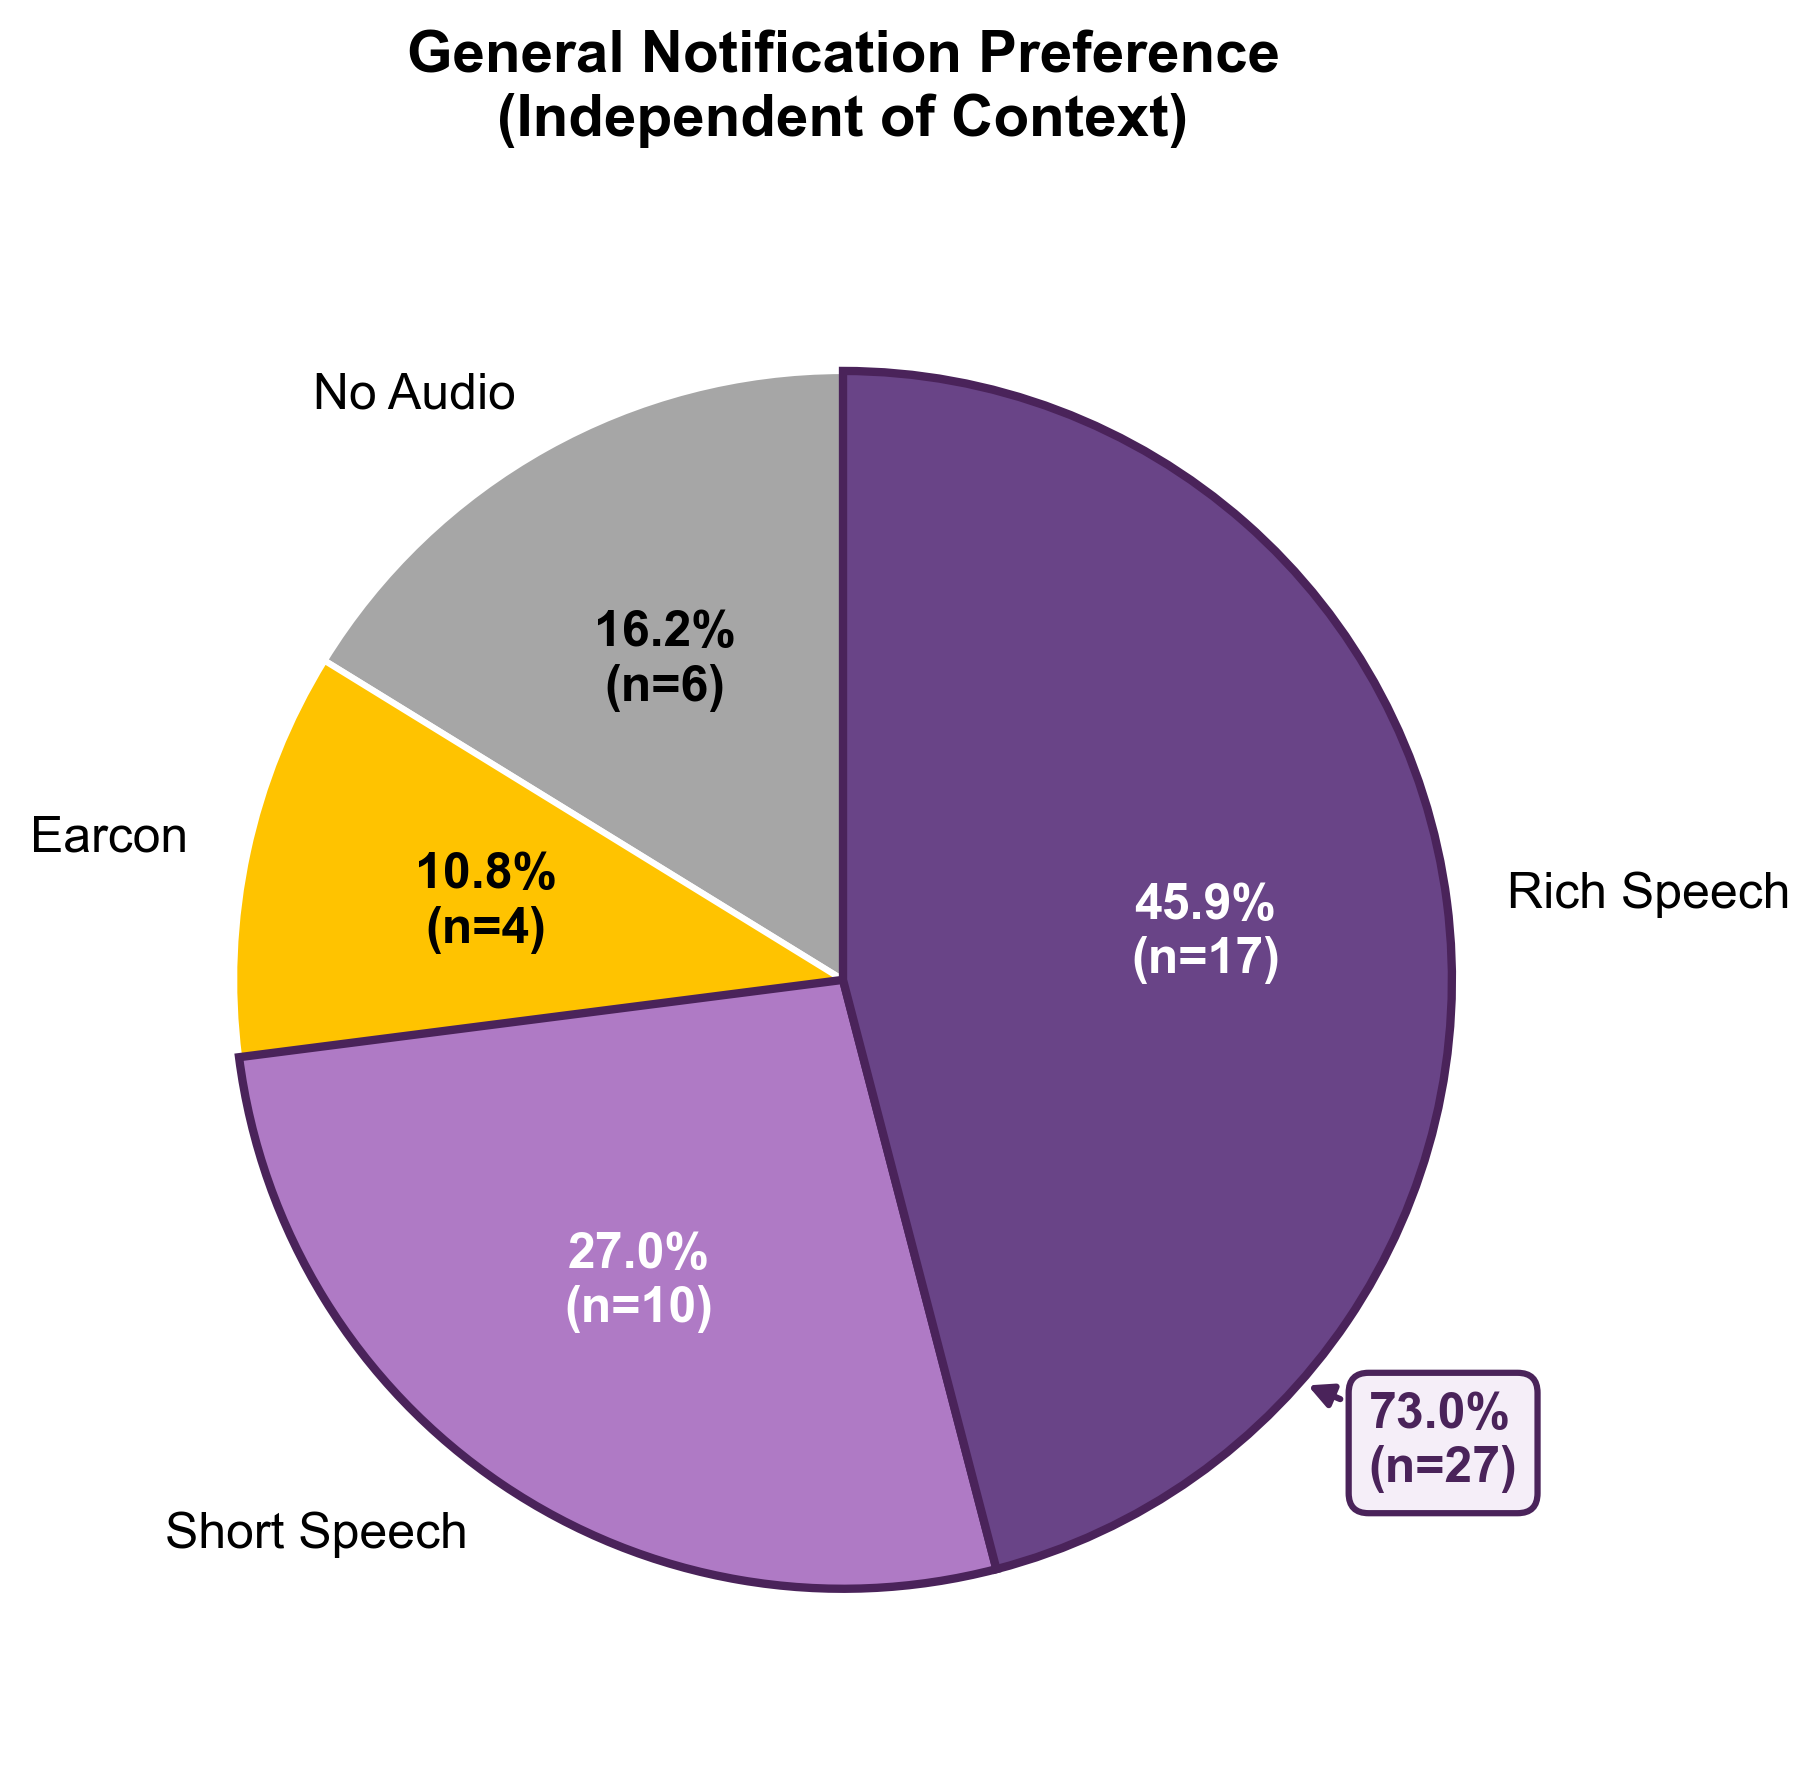
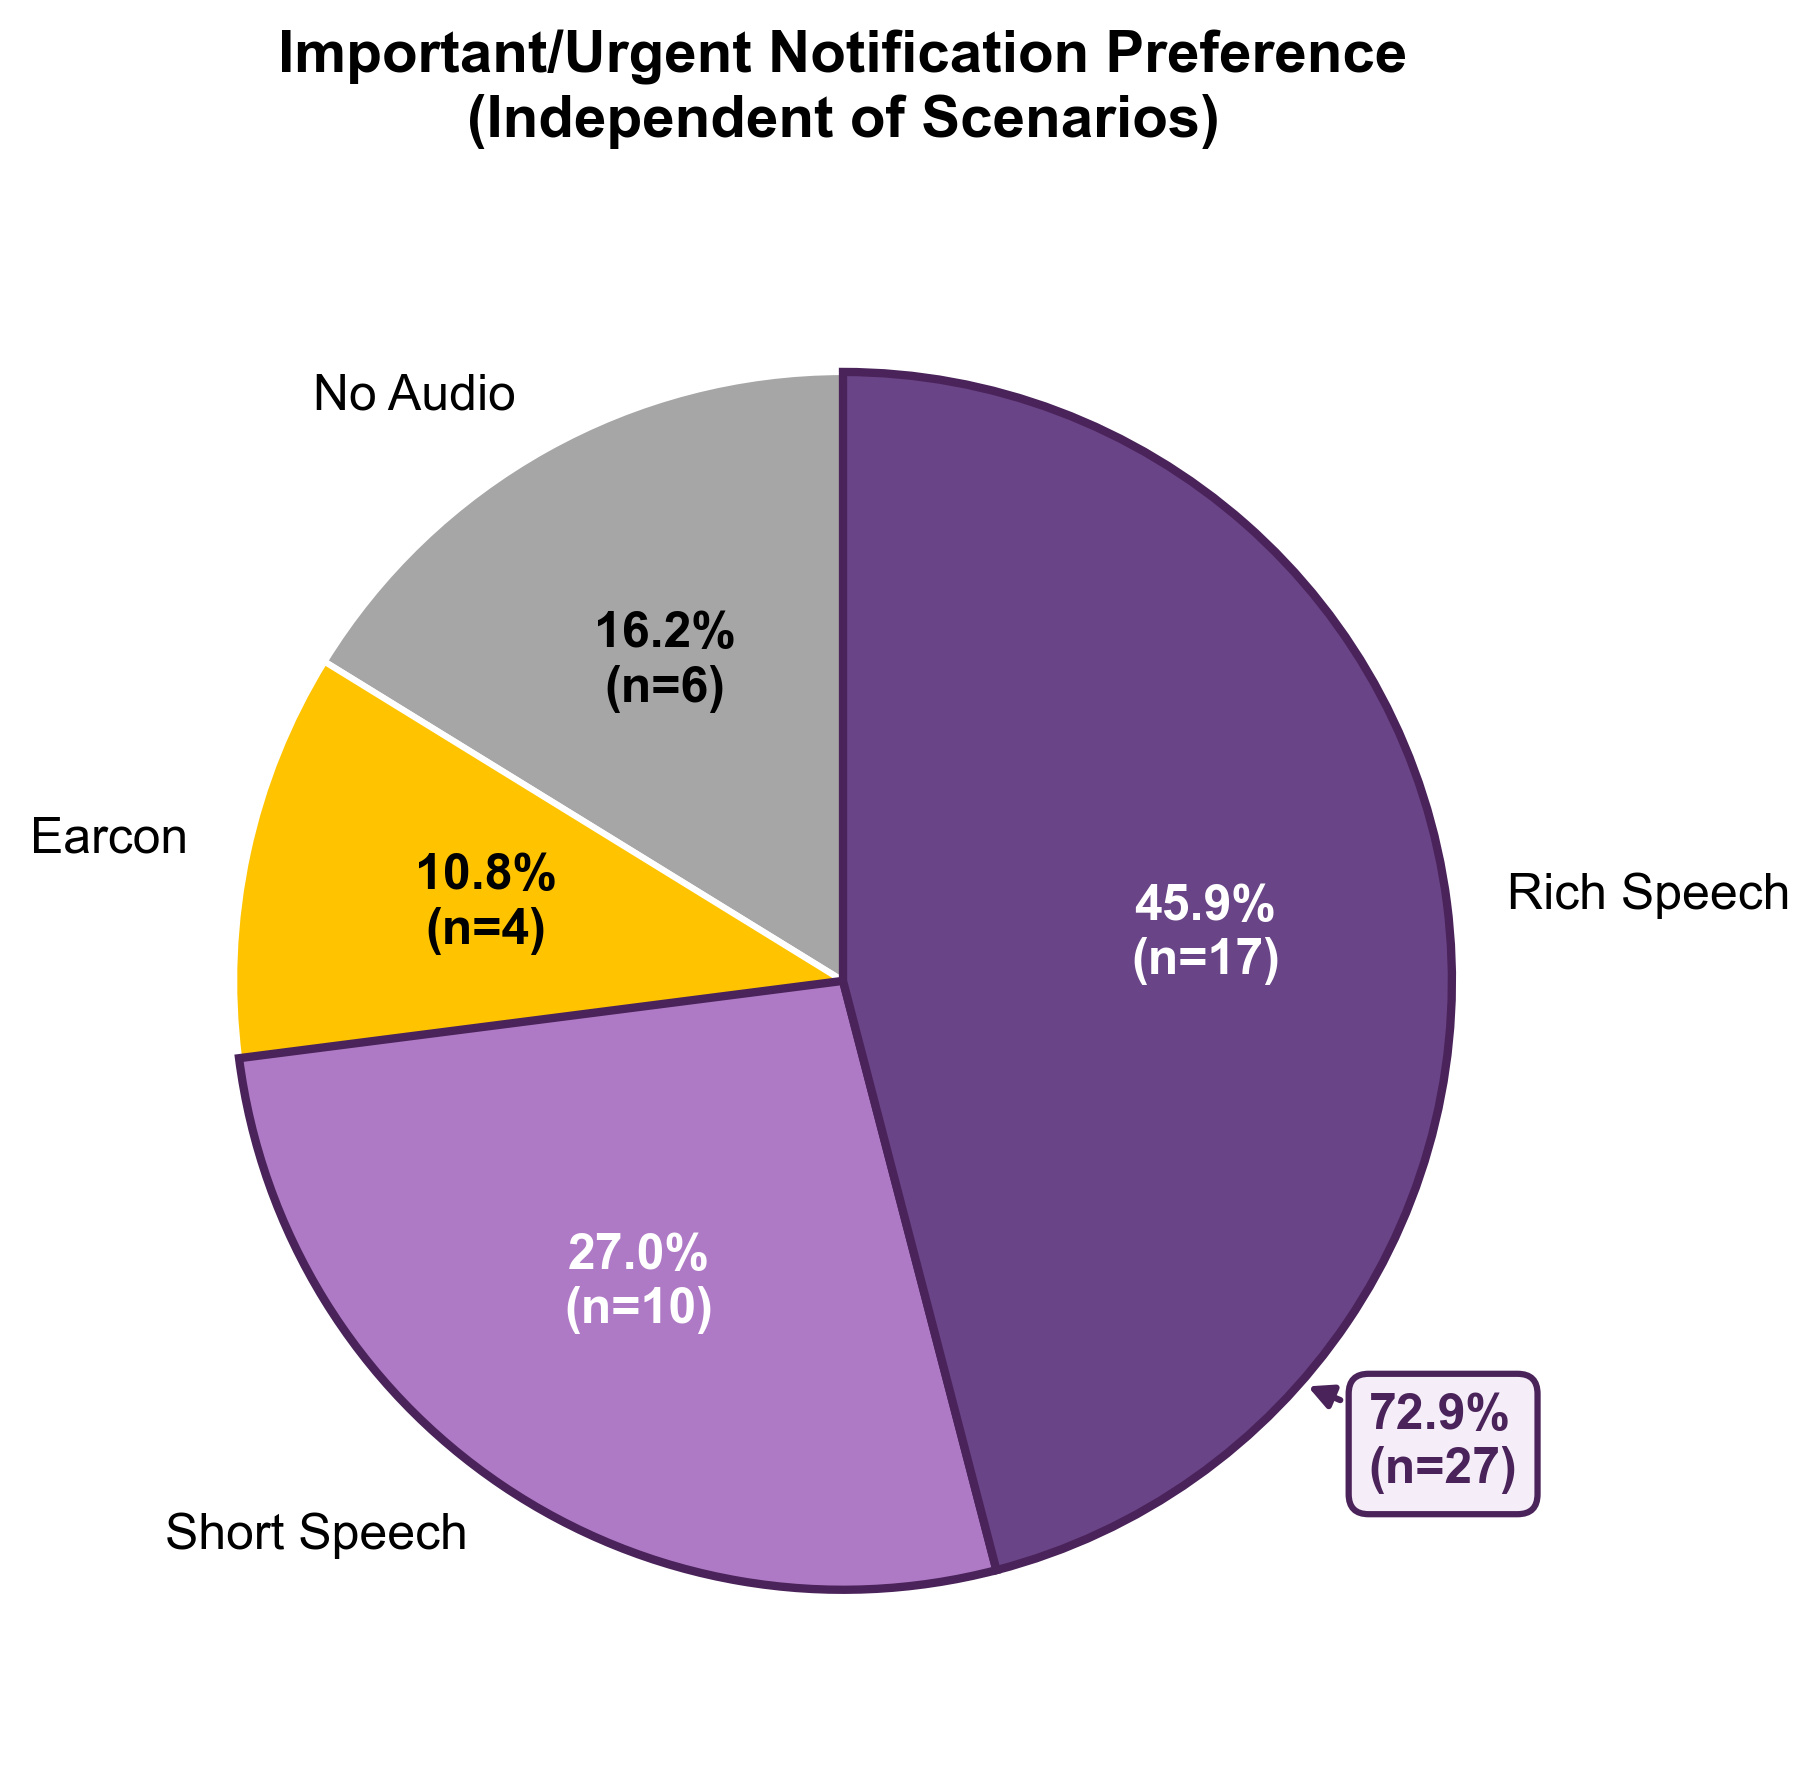
progress

diff --git a/preferenceDevelopment.py b/preferenceDevelopment.py
@@ -1,0 +1,197 @@
+import matplotlib.pyplot as plt
+import os
+import numpy as np
+from matplotlib.patches import Polygon
+
+# ==========================================
+# CONFIGURATION
+# ==========================================
+OUTPUT_DIR = "furtherPlots32"
+
+# Explicitly tell Matplotlib to use the sans-serif list for all text by default
+plt.rcParams['font.family'] = 'sans-serif'
+plt.rcParams['font.sans-serif'] = ['Arial', 'Segoe UI Emoji', 'Tahoma', 'DejaVu Sans']
+
+# Format Colors matching previous visualizations
+FORMAT_COLORS = {
+    'No Audio': '#A6A6A6',      # Grey
+    'Earcon': '#FFC300',        # Yellow
+    'Short Speech': '#AF7AC5',  # Light Purple
+    'Rich Speech': '#694487'    # Dark Purple
+}
+
+FORMAT_ORDER = ['No Audio', 'Earcon', 'Short Speech', 'Rich Speech']
+
+STAGES_ORDER = [
+    'Stage 1: Independent\n(Initial Preference)', 
+    'Stage 2: Scenario-Based\n(Aggregated)', 
+    'Stage 3: Timing-Based\n(Aggregated)'
+]
+
+# Hardcoded data based on your provided stats
+SURVEY_DATA = {
+    'Stage 1: Independent\n(Initial Preference)': {
+        'Rich Speech': 17,
+        'Short Speech': 10,
+        'No Audio': 6,
+        'Earcon': 4
+    },
+    'Stage 2: Scenario-Based\n(Aggregated)': {
+        'Earcon': 109,
+        'Rich Speech': 95,
+        'No Audio': 72,
+        'Short Speech': 57
+    },
+    'Stage 3: Timing-Based\n(Aggregated)': {
+        'Rich Speech': 165,
+        'Earcon': 94,
+        'Short Speech': 69,
+        'No Audio': 5
+    }
+}
+
+def plot_development_flow(data, title, filename):
+    """Creates a 100% stacked bar chart showing the flow of preference over stages."""
+    fig, ax = plt.subplots(figsize=(11, 7)) # Slightly wider to accommodate side labels
+    
+    num_stages = len(STAGES_ORDER)
+    
+    # Pre-calculate percentage values and bottom positions for the stacked bars
+    values_matrix = np.zeros((len(FORMAT_ORDER), num_stages))
+    bottoms_matrix = np.zeros((len(FORMAT_ORDER), num_stages))
+    current_bottom = np.zeros(num_stages)
+    
+    column_totals = []
+    
+    for j, stage in enumerate(STAGES_ORDER):
+        total_for_stage = sum(data[stage].values())
+        column_totals.append(total_for_stage)
+        
+        for i, fmt in enumerate(FORMAT_ORDER):
+            # Calculate percentages precisely
+            pct = (data[stage][fmt] / total_for_stage * 100) if total_for_stage > 0 else 0
+            values_matrix[i, j] = pct
+            bottoms_matrix[i, j] = current_bottom[j]
+            current_bottom[j] += pct
+
+    bar_width = 0.4
+    x_positions = np.arange(num_stages)
+    
+    # 1. Draw the connecting ribbons FIRST (so they sit behind the crisp bar borders)
+    for i, fmt in enumerate(FORMAT_ORDER):
+        for j in range(num_stages - 1):
+            if values_matrix[i, j] > 0 or values_matrix[i, j+1] > 0:
+                # Right edge of the left bar
+                x1 = x_positions[j] + (bar_width / 2)
+                y1_bottom = bottoms_matrix[i, j]
+                y1_top = y1_bottom + values_matrix[i, j]
+                
+                # Left edge of the right bar
+                x2 = x_positions[j+1] - (bar_width / 2)
+                y2_bottom = bottoms_matrix[i, j+1]
+                y2_top = y2_bottom + values_matrix[i, j+1]
+                
+                # Create the polygon connecting them
+                poly_x = [x1, x2, x2, x1]
+                poly_y = [y1_top, y2_top, y2_bottom, y1_bottom]
+                
+                poly = Polygon(list(zip(poly_x, poly_y)), 
+                               facecolor=FORMAT_COLORS[fmt], 
+                               alpha=0.3, # Semi-transparent for the "flow" look
+                               edgecolor='none')
+                ax.add_patch(poly)
+
+    # 2. Draw the solid stacked bars ON TOP of the ribbons
+    for i, fmt in enumerate(FORMAT_ORDER):
+        bars = ax.bar(x_positions, values_matrix[i, :], bottom=bottoms_matrix[i, :], 
+                      width=bar_width, label=fmt, color=FORMAT_COLORS[fmt], 
+                      edgecolor='white', linewidth=1.5, zorder=4)
+        
+        # Add text labels inside the bars if the percentage is large enough to read
+        for j, bar in enumerate(bars):
+            val = values_matrix[i, j]
+            if val > 3:  
+                text_color = 'white' if fmt in ['Rich Speech', 'Short Speech'] else 'black'
+                ax.text(bar.get_x() + bar.get_width()/2, bar.get_y() + bar.get_height()/2,
+                        f'{val:.1f}%', ha='center', va='center', 
+                        color=text_color, weight='bold', fontsize=11, zorder=5)
+
+    # 3. Add the Column Totals on top of each bar
+    for j, x in enumerate(x_positions):
+        ax.text(x, 102, f"Total responses:\nn={column_totals[j]}", 
+                ha='center', va='bottom', fontsize=11, weight='bold', color='#333333')
+
+    # 4. Add "Overall Speech" Brackets on the left of each bar
+    for j, stage in enumerate(STAGES_ORDER):
+        # Index 2 is 'Short Speech', Index 3 is 'Rich Speech'
+        speech_bottom = bottoms_matrix[2, j]
+        speech_top = bottoms_matrix[3, j] + values_matrix[3, j]
+        
+        # Calculate combined stats perfectly matched to the visual rounded labels
+        raw_short = SURVEY_DATA[stage]['Short Speech']
+        raw_rich = SURVEY_DATA[stage]['Rich Speech']
+        total_for_stage = column_totals[j]
+        
+        short_pct = round((raw_short / total_for_stage) * 100, 1)
+        rich_pct = round((raw_rich / total_for_stage) * 100, 1)
+        combined_pct = short_pct + rich_pct
+        combined_n = raw_short + raw_rich
+        
+        bracket_x = x_positions[j] - (bar_width / 2) - 0.015
+        cap_len = 0.05
+        
+        # Draw the vertical line for the bracket
+        ax.plot([bracket_x, bracket_x], [speech_bottom, speech_top], color='#4A235A', lw=2.5, zorder=6)
+        # Draw the top horizontal cap
+        ax.plot([bracket_x, bracket_x + cap_len], [speech_top, speech_top], color='#4A235A', lw=2.5, zorder=6)
+        # Draw the bottom horizontal cap
+        ax.plot([bracket_x, bracket_x + cap_len], [speech_bottom, speech_bottom], color='#4A235A', lw=2.5, zorder=6)
+        
+        # Draw the text box containing the summary
+        ax.text(bracket_x - 0.04, (speech_bottom + speech_top) / 2, 
+                f"Overall Speech\n{combined_pct:.1f}%\n(n={combined_n})", 
+                ha='right', va='center', color='#4A235A', weight='bold', fontsize=10,
+                bbox=dict(boxstyle="round,pad=0.4", fc="#F5EEF8", ec="#4A235A", lw=1.5),
+                zorder=7)
+
+    # Formatting and aesthetics
+    ax.set_title(title, fontsize=14, weight='bold', pad=30)
+    ax.set_ylabel('Percentage of Preferred Formats (%)', fontsize=12, weight='bold')
+    
+    # Adjust axes limits to fit the new left-aligned brackets cleanly
+    ax.set_ylim(0, 115)
+    ax.set_xlim(-0.7, num_stages - 0.4)
+    
+    # Set X-axis labels
+    ax.set_xticks(x_positions)
+    ax.set_xticklabels(STAGES_ORDER, fontsize=12, weight='bold')
+    
+    # Remove y-axis ticks above 100 since the bar caps at 100
+    ax.set_yticks([0, 20, 40, 60, 80, 100])
+    
+    # Adjust legend
+    ax.legend(title="Audio Format", bbox_to_anchor=(1.05, 1), loc='upper left', fontsize=11, title_fontsize=12)
+    
+    # Remove top and right borders for a cleaner look
+    ax.spines['top'].set_visible(False)
+    ax.spines['right'].set_visible(False)
+    
+    # Ensure it saves perfectly
+    plt.tight_layout()
+    os.makedirs(OUTPUT_DIR, exist_ok=True)
+    out_path = os.path.join(OUTPUT_DIR, filename)
+    plt.savefig(out_path, dpi=300, bbox_inches='tight')
+    print(f"Saved Flow Chart: {out_path}")
+    plt.close()
+
+
+def main():
+    print("Generating preference development chart...")
+    plot_development_flow(
+        SURVEY_DATA, 
+        "Evolution of Important/Urgent Notification Type Preferences Throughout the Survey", 
+        "06_Preference_Development_Flow.png"
+    )
+
+if __name__ == "__main__":
+    main()

diff --git a/furtherPlots3.py b/furtherPlots3.py
@@ -34,6 +34,7 @@ def map_category(raw_name):
     else:
         return 'No Audio' # Fallback
 
+
 def plot_pie_chart(data_dict, title, filename):
     """
     data_dict: dict mapping raw category strings to dicts with 'n' and 'percentage'.
@@ -91,7 +92,13 @@ def plot_pie_chart(data_dict, title, filename):
     # Combine the stats for Speech
     speech_n = agg_data['Short Speech'] + agg_data['Rich Speech']
     total_n = sum(agg_data.values())
-    speech_pct = (speech_n / total_n) * 100
+    
+    # FIX: Calculate rounded individual percentages to perfectly match the pie labels
+    short_speech_pct = round((agg_data['Short Speech'] / total_n) * 100, 1)
+    rich_speech_pct = round((agg_data['Rich Speech'] / total_n) * 100, 1)
+    
+    # Add the rounded values together so the visual math adds up correctly
+    speech_pct = short_speech_pct + rich_speech_pct
     
     # Calculate position for annotation
     speech_wedges = [w for i, w in enumerate(wedges) if labels[i] in ['Short Speech', 'Rich Speech']]
@@ -148,7 +155,7 @@ def main():
         pref_data = log_data["general_notification_preference"]["breakdown"]
         plot_pie_chart(
             pref_data, 
-            "General Notification Preference\n(Independent of Context)", 
+            "Important/Urgent Notification Preference\n(Independent of Scenarios)", 
             "01_General_Preference_Pie.png"
         )
     else: